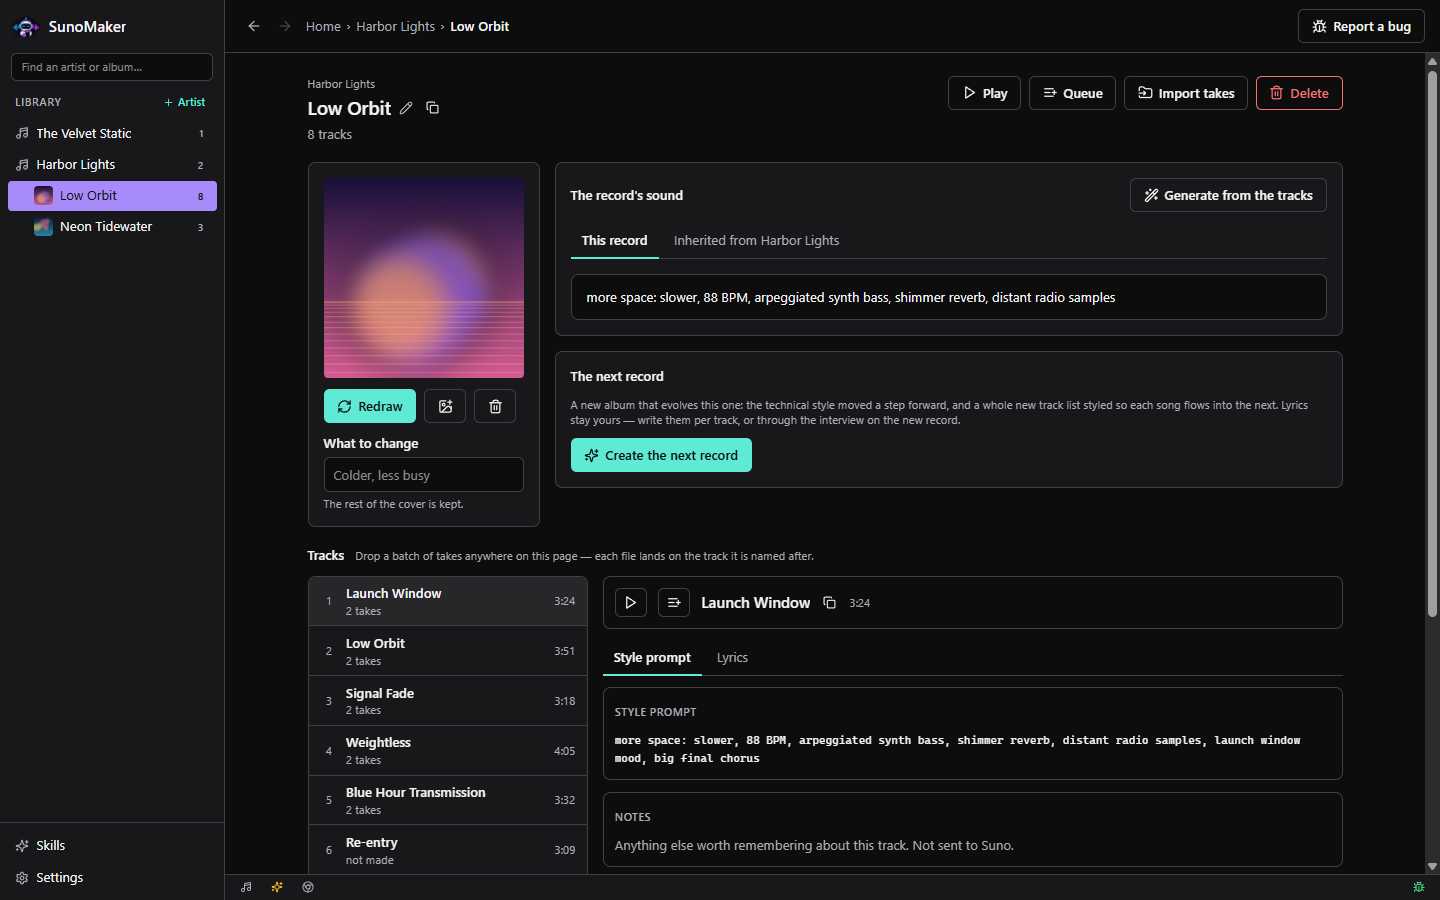
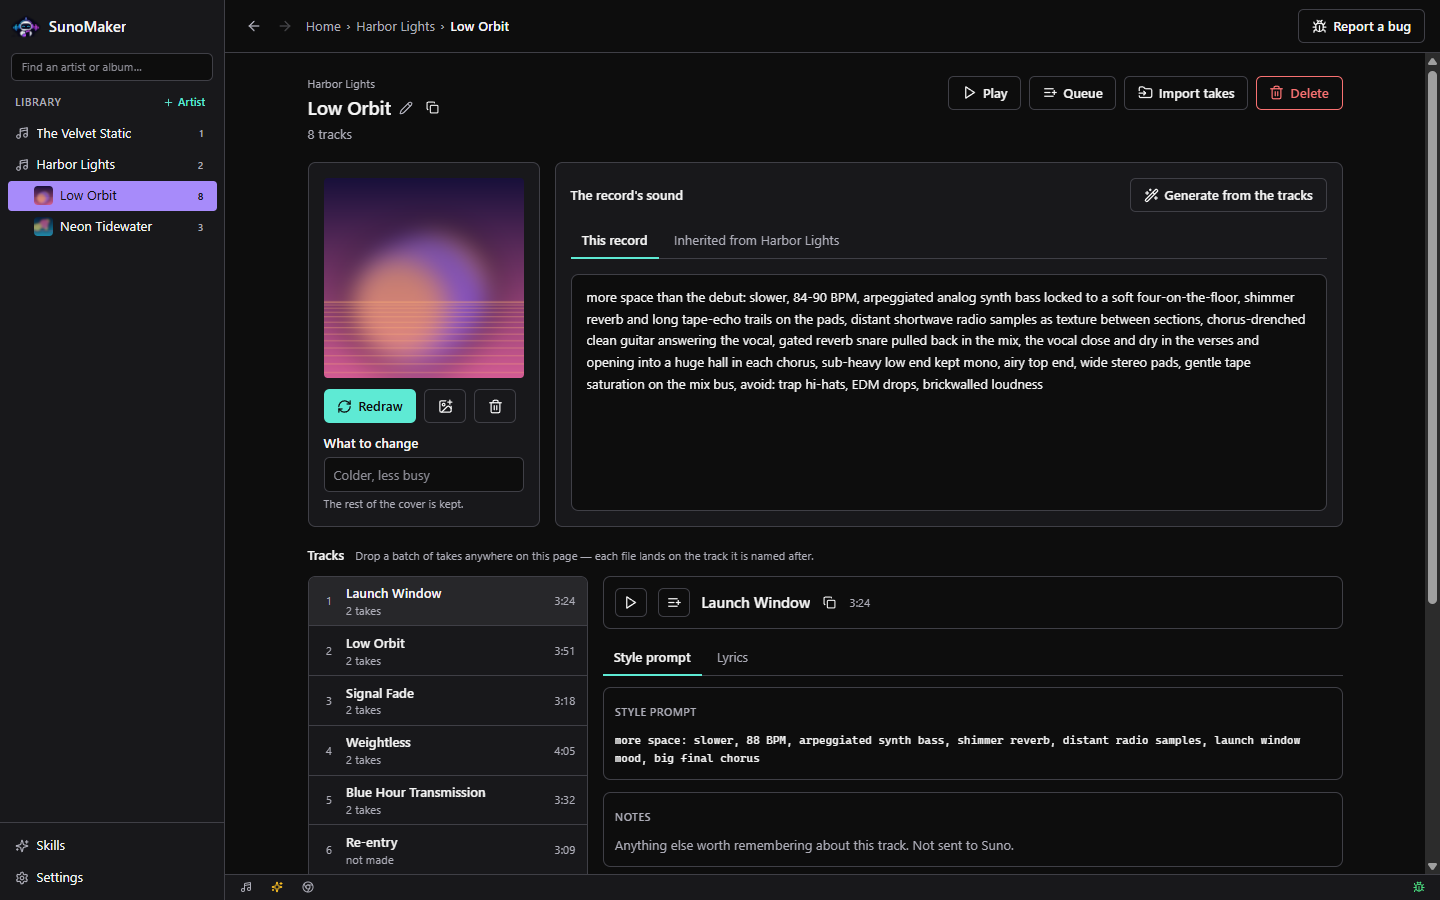
The album page's top row ends level, however long the sound runs (#98)
The one-page album layout from #97 put the cover in a narrow left column.
The record's sound and "The next record" were stacked in the right
column. The demo sound was a single line, and at that length the columns
matched. A real album's sound runs to paragraphs, and the report's
screenshot shows one of about thirty lines. The right column grew to
several times the cover's height, which left a large empty area under
the cover. The tracks were pushed well below the fold.

Three changes make the row one block again:

- **The sound is capped when it is read.** MarkdownField has a new
  collapsedHeight option. When it is set, the rendered text stops at that
  height and fades out, and "Show all" or "Show less" toggles it. The
  album page caps the sound at a height chosen so the sound panel ends
  level with the cover panel. The toggle and fade only appear when text
  is actually hidden. That is measured with a ResizeObserver, not guessed
  from the length, because it depends on the window's width. The editor
  is not capped: hiding text while somebody writes it is worse than a
  gap. The inherited artist style gets the same cap.
- **The sound panel fills the row.** The two top panels now share a
  height, and MarkdownField's new fill option lets the text box grow to
  the panel's bottom edge. A short sound reads as a box of text, not a
  box with an empty strip of panel under it.
- **"The next record" moved to the bottom row,** beside the release
[…]

Changed region(s): [[0.375, 0.3111, 0.9062, 0.5289], [0.2188, 0.4356, 0.2812, 0.4978]]

diff --git a/frontend/src/views/AlbumDetails.tsx b/frontend/src/views/AlbumDetails.tsx
@@ -44,6 +44,14 @@ import {useArtworks} from '../artworks/ArtworksProvider'
  * so it has its own busy state rather than sharing the page's. A producer
  * waiting on a cover can still edit the fields beside it.
  */
+/**
+ * How much of the record's sound shows before Show all, in pixels (#98). Sized
+ * so the sound panel ends level with the cover panel beside it: a real sound
+ * runs to paragraphs, and uncapped it opened a gap under the cover as tall as
+ * the rest of it.
+ */
+const SOUND_HEIGHT = 200
+
 export function AlbumDetails({
   albumId,
   trackId,
@@ -376,7 +384,7 @@ export function AlbumDetails({
           style from the Tracks tab this page usually sits on, and the record
           is easier to judge whole — the cover beside the style it should
           match, the style above the prompts it is joined into. */}
-      <div className="grid items-start gap-4 md:grid-cols-[232px_minmax(0,1fr)]">
+      <div className="grid gap-4 md:grid-cols-[232px_minmax(0,1fr)]">
         {/* Always mounted, now that there is no tab to hide it behind: a
             cover generation runs for minutes and its busy state lives here. */}
         <section className="sm-panel space-y-3 p-4" aria-label="Artwork">
@@ -459,11 +467,7 @@ export function AlbumDetails({
           )}
         </section>
 
-        {/* The right-hand column: the record's sound, and the record that
-            follows from it — together about the height of the cover beside
-            them, so the tracks below start as high as they can. */}
-        <div className="space-y-4">
-        <section className="sm-panel space-y-3 p-4">
+        <section className="sm-panel flex flex-col gap-3 p-4">
           <div className="flex flex-wrap items-center gap-2">
             <h2 className="flex-1 text-sm font-semibold">The record's sound</h2>
             {/* Back by request (#38, reversing #37), with the button that
@@ -513,51 +517,22 @@ export function AlbumDetails({
               placeholder="Analog synths, colder mix than the debut, 100-110 BPM…"
               value={draft.technicalStyle}
               onChange={(technicalStyle) => update({technicalStyle})}
+              collapsedHeight={SOUND_HEIGHT}
+              fill
             />
           )}
           {styleTab === 'inherited' && (
             /* The other half of combinedStyle, shown where the joining
                happens (#40). Read-only: the base style belongs to the artist,
                and two editable copies of it would drift. */
-            <div className="space-y-1">
-              <pre className="max-h-72 overflow-auto whitespace-pre-wrap rounded-md border border-edge bg-surface px-3 py-2 font-mono text-xs leading-relaxed text-fg-muted">
+            <div className="flex flex-1 flex-col gap-1">
+              <pre style={{maxHeight: SOUND_HEIGHT}} className="flex-1 overflow-auto whitespace-pre-wrap rounded-md border border-edge bg-surface px-3 py-2 font-mono text-xs leading-relaxed text-fg-muted">
                 {album.artistBaseStyle || 'No base style written yet.'}
               </pre>
               <p className="text-xs text-fg-muted">Read-only here — edit it on the artist.</p>
             </div>
           )}
         </section>
-
-        {/* The successor (#42): a new record under the same artist, the
-            technical style evolved one step and a fresh track list written to
-            flow. Navigation happens only once the album exists — a failure
-            leaves the producer here, with the message. */}
-        <section className="sm-panel space-y-3 p-4">
-          <h2 className="text-sm font-semibold">The next record</h2>
-          <p className="text-xs text-fg-muted">
-            A new album that evolves this one: the technical style moved a step forward, and
-            a whole new track list styled so each song flows into the next. Lyrics stay yours
-            — write them per track, or through the interview on the new record.
-          </p>
-          <button
-            className="sm-button sm-button-primary"
-            type="button"
-            disabled={evolving}
-            onClick={() => evolve({id: album.id, name: album.name, artistId: album.artistId})}
-          >
-            {evolving ? <Loader2 size={15} className="animate-spin" /> : <Sparkles size={15} />}
-            {evolving ? 'Evolving…' : 'Create the next record'}
-          </button>
-          {evolving && (
-            <p className="text-xs text-fg-muted">
-              This keeps running if you navigate away — watch the status bar.
-            </p>
-          )}
-          {evolution?.state === 'failed' && (
-            <p className="text-sm text-danger">{evolution.error}</p>
-          )}
-        </section>
-        </div>
       </div>
 
       <section ref={tracksRef} className="scroll-mt-4 space-y-3" aria-label="Tracks">
@@ -686,7 +661,11 @@ export function AlbumDetails({
         )}
       </section>
 
-      {/* The last step of the workflow, last on the page. */}
+      {/* The last steps of the workflow, last on the page: where the record
+          went once it was out, and the record that follows it. Down here
+          rather than under the sound (#98), where the space it took depended
+          on how long the sound ran and the cover's column went empty. */}
+      <div className="grid items-start gap-4 lg:grid-cols-[minmax(0,2fr)_minmax(0,1fr)]">
       <section className="sm-panel space-y-3 p-4">
         <div>
           <h2 className="text-sm font-semibold">Released at</h2>
@@ -713,6 +692,37 @@ export function AlbumDetails({
           />
         </div>
       </section>
+
+        {/* The successor (#42): a new record under the same artist, the
+            technical style evolved one step and a fresh track list written to
+            flow. Navigation happens only once the album exists — a failure
+            leaves the producer here, with the message. */}
+        <section className="sm-panel space-y-3 p-4">
+          <h2 className="text-sm font-semibold">The next record</h2>
+          <p className="text-xs text-fg-muted">
+            A new album that evolves this one: the technical style moved a step forward, and
+            a whole new track list styled so each song flows into the next. Lyrics stay yours
+            — write them per track, or through the interview on the new record.
+          </p>
+          <button
+            className="sm-button sm-button-primary"
+            type="button"
+            disabled={evolving}
+            onClick={() => evolve({id: album.id, name: album.name, artistId: album.artistId})}
+          >
+            {evolving ? <Loader2 size={15} className="animate-spin" /> : <Sparkles size={15} />}
+            {evolving ? 'Evolving…' : 'Create the next record'}
+          </button>
+          {evolving && (
+            <p className="text-xs text-fg-muted">
+              This keeps running if you navigate away — watch the status bar.
+            </p>
+          )}
+          {evolution?.state === 'failed' && (
+            <p className="text-sm text-danger">{evolution.error}</p>
+          )}
+        </section>
+      </div>
 
       {interviewing && (
         <InterviewDialog

diff --git a/frontend/src/components/MarkdownField.tsx b/frontend/src/components/MarkdownField.tsx
@@ -13,7 +13,7 @@ import {
   Strikethrough,
   type LucideIcon,
 } from 'lucide-react'
-import {useEffect, useRef, useState} from 'react'
+import {useEffect, useLayoutEffect, useRef, useState} from 'react'
 import {Markdown} from './Markdown'
 
 /**
@@ -43,6 +43,8 @@ export function MarkdownField({
   copyable,
   autoEdit,
   autoFocus,
+  collapsedHeight,
+  fill,
 }: {
   label: string
   value: string
@@ -76,10 +78,42 @@ export function MarkdownField({
    * field remounted each time its dialog opens, so the focus lands on each open.
    */
   autoFocus?: boolean
+  /**
+   * Cap the rendered prose at this many pixels, with Show all to open it
+   * (#98). For a field that shares a row with something of fixed height: a
+   * long value otherwise pushes the row open and leaves a gap beside it as
+   * tall as the overflow. Only the reading view is capped — the editor keeps
+   * its own size, because hiding text somebody is writing is worse than a gap.
+   */
+  collapsedHeight?: number
+  /**
+   * Grow the reading view to the height its flex parent leaves (#98), so a
+   * short value in a tall panel reads as a box of text rather than a box with
+   * an empty strip of panel under it.
+   */
+  fill?: boolean
 }) {
   const [editing, setEditing] = useState(autoEdit || !value.trim())
   const [copied, setCopied] = useState(false)
   const textareaRef = useRef<HTMLTextAreaElement>(null)
+  const proseRef = useRef<HTMLDivElement>(null)
+  const [expanded, setExpanded] = useState(false)
+  const [overflows, setOverflows] = useState(false)
+
+  // Whether the capped prose actually hides anything, so a short value gets
+  // no toggle and no fade. Measured rather than guessed from the length: the
+  // answer depends on the width the field is given, which changes with the
+  // window. Only measured while collapsed — expanded, the cap is off and the
+  // comparison would always say it fits.
+  useLayoutEffect(() => {
+    const el = proseRef.current
+    if (!el || !collapsedHeight || expanded) return
+    const measure = () => setOverflows(el.scrollHeight > el.clientHeight + 1)
+    measure()
+    const observer = new ResizeObserver(measure)
+    observer.observe(el)
+    return () => observer.disconnect()
+  }, [collapsedHeight, expanded, value, editing])
 
   // Focus the editor on open when asked, with the caret at the end so editing an
   // existing value continues where it left off rather than before its first
@@ -102,10 +136,35 @@ export function MarkdownField({
 
   if (!editing) {
     return (
-      <div className="flex flex-col gap-1">
+      <div className={'flex flex-col gap-1' + (fill ? ' flex-1' : '')}>
         <span className="text-sm font-medium">{label}</span>
-        <div className="group relative rounded-lg border border-edge bg-bg px-4 py-3">
-        <Markdown>{value}</Markdown>
+        <div
+          className={
+            'group relative rounded-lg border border-edge bg-bg px-4 py-3' + (fill ? ' flex-1' : '')
+          }
+        >
+        <div
+          ref={proseRef}
+          className="relative overflow-hidden"
+          style={collapsedHeight && !expanded ? {maxHeight: collapsedHeight} : undefined}
+        >
+          <Markdown>{value}</Markdown>
+          {/* A fade into the field's own background says the text goes on, so
+              the cut line never reads as the end of it. */}
+          {overflows && !expanded && (
+            <div className="pointer-events-none absolute inset-x-0 bottom-0 h-10 bg-gradient-to-t from-bg to-transparent" />
+          )}
+        </div>
+        {overflows && (
+          <button
+            type="button"
+            onClick={() => setExpanded((open) => !open)}
+            aria-expanded={expanded}
+            className="mt-1 text-xs font-semibold text-accent hover:underline"
+          >
+            {expanded ? 'Show less' : 'Show all'}
+          </button>
+        )}
         {/* Both controls in one corner, revealed together. They are the two
             things anybody does to a document they are looking at, and a button
             that is always there over prose is a button in the way of reading
